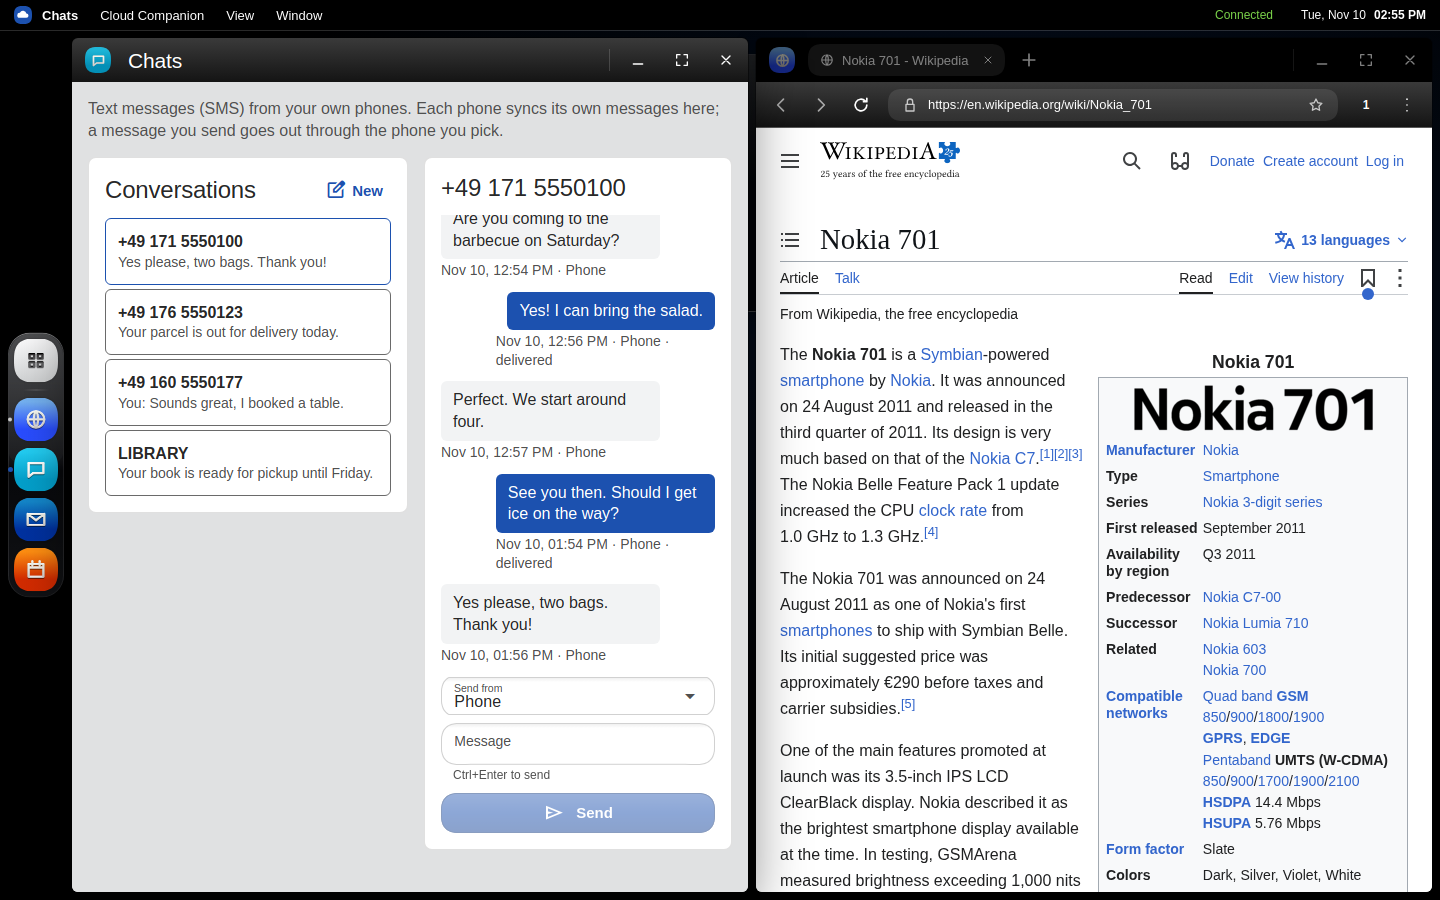
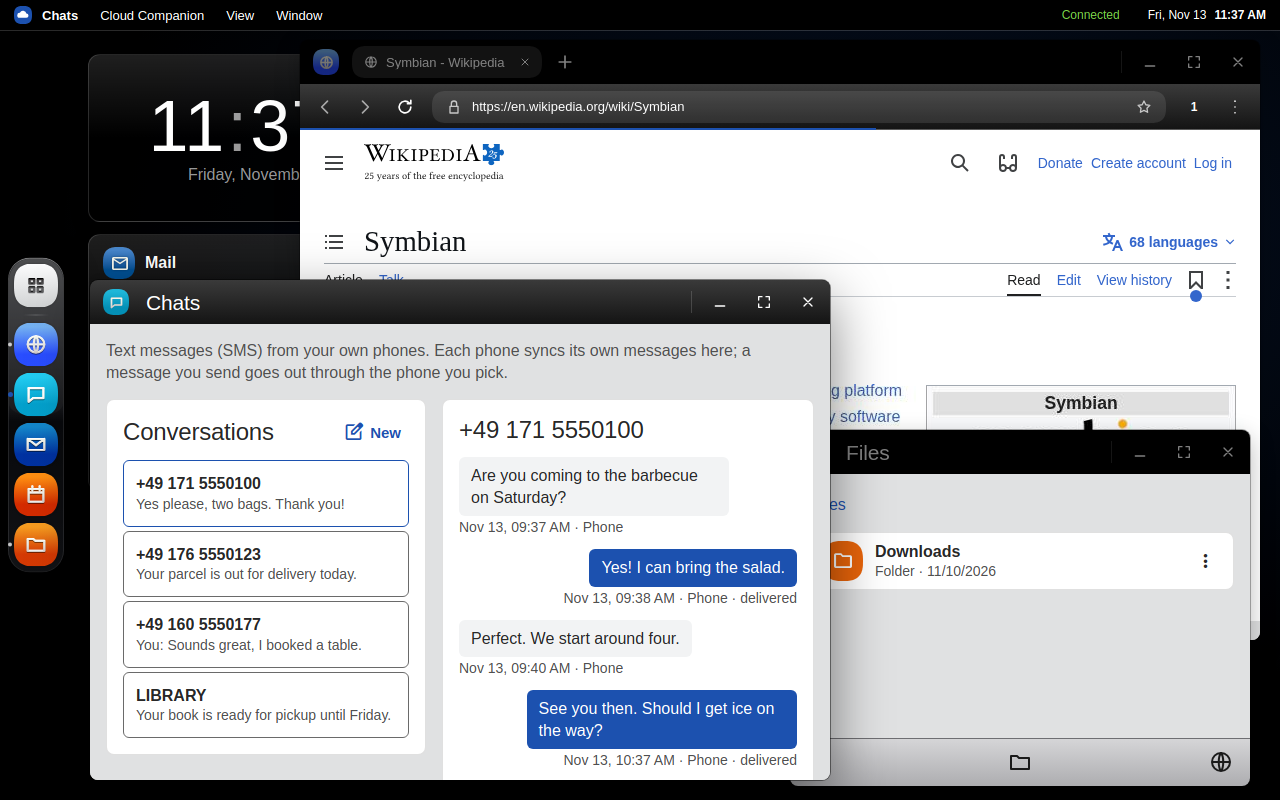
docs(readme): desktop screenshot with overlapping windows (Chats, Browser on Symbian, Files)

diff --git a/web/test/readme-shots.ts b/web/test/readme-shots.ts
@@ -10,7 +10,7 @@ import { openApp } from './chrome.ts'
 
 const BASE = process.env.BASE || 'http://localhost:8080'
 const OUT = process.env.OUT || '.'
-const SITE = process.env.SITE_URL || 'https://en.wikipedia.org/wiki/Nokia_701'
+const SITE = process.env.SITE_URL || 'https://en.wikipedia.org/wiki/Symbian'
 const [ADMIN, PLAIN] = (process.env.CODES || '').split(',')
 assert(ADMIN && PLAIN, 'CODES=<admin>,<plain> is required')
 const browser = await chromium.launch({ args: ['--autoplay-policy=no-user-gesture-required'] })
@@ -85,7 +85,8 @@ await noBanner(owner, '[data-test=stage]')
 await owner.screenshot({ path: `${OUT}/readme-browser.png` })
 step('browser: ' + await owner.inputValue(addr) + ' / ' + await owner.locator('[data-test=title]').textContent({ timeout: 2000 }).catch(() => '?'))
 
-// the desktop, with a few windows: Chats (the conversation), Browser on a real site, Calendar
+// the desktop (1280 x 800), with overlapping windows: Chats (the conversation), the Browser on a real site, Files
+await owner.setViewportSize({ width: 1280, height: 800 })
 await owner.goto(BASE + '/#/chats')
 await owner.waitForSelector('[data-test=conv]')
 await openApp(owner, 'Desktop')
@@ -100,17 +101,27 @@ await owner.waitForTimeout(3000)
 await owner.fill(`${win('browse')} .x-bf__row input`, SITE); await owner.press(`${win('browse')} .x-bf__row input`, 'Enter')
 await owner.waitForTimeout(12000)
 await noBanner(owner, `${win('browse')} [data-test=stage]`)
-const snap = async (id: string, x: number) => {
-  const b = (await owner.locator(`${win(id)} .x-win__drag`).boundingBox())!
-  await owner.mouse.move(b.x + 120, b.y + 10); await owner.mouse.down(); await owner.mouse.move(x, 450, { steps: 20 }); await owner.mouse.up()
-  await owner.waitForTimeout(800)
-}
-await snap('browse', 1438)
-await owner.locator(`${win('chats')} .x-win__drag`).click({ position: { x: 300, y: 10 }, force: true }).catch(() => {})
-await snap('chats', 2)
+// the windows have no resize handles: their places, sizes and stacking (z) go to the desktop's stored layout, and the desktop is
+// opened again with it -- the Browser at the back, Files over its corner, Chats in front, partly over both
+const layout = [
+  { id: 'browse', x: 300, y: 10, w: 960, h: 600, z: 1 },
+  { id: 'files', x: 790, y: 400, w: 460, h: 356, z: 2 },
+  { id: 'chats', x: 90, y: 250, w: 740, h: 500, z: 3 },
+].map((l) => ({ ...l, snap: null, min: false }))
+await owner.evaluate((v) => window.__phe.apiCall('PUT', '/phe/prefs/desktop.windows', { value: v }), JSON.stringify(layout))
+await owner.waitForTimeout(1000)
+await owner.reload()
+await owner.waitForSelector(win('files'), { timeout: 20000 })
+await owner.waitForSelector(`${win('chats')} [data-test=conv]`, { timeout: 20000 })
 await owner.locator(`${win('chats')} [data-test=conv]`, { hasText: 'two bags' }).click()
-await owner.waitForTimeout(1500)
-await owner.mouse.move(720, 890)
+// the Browser window comes back on a new tab: the site again
+await owner.waitForSelector(`${win('browse')} .x-bf__row input`, { timeout: 30000 })
+await owner.waitForTimeout(3000)
+await owner.fill(`${win('browse')} .x-bf__row input`, SITE); await owner.press(`${win('browse')} .x-bf__row input`, 'Enter')
+await owner.locator(`${win('chats')} [data-test=conv]`, { hasText: 'two bags' }).click()
+await owner.waitForTimeout(12000)
+await noBanner(owner, `${win('browse')} [data-test=stage]`)
+await owner.mouse.move(640, 790)
 await owner.screenshot({ path: `${OUT}/readme-desktop.png` })
 assert.deepEqual(errors, [], 'no page errors')
 await browser.close()

diff --git a/README.md b/README.md
@@ -1,5 +1,5 @@
 <p align="center">
-  <img src=".github/readme/desktop.png" width="860" alt="The Cloud Companion web desktop in a browser: a Chats window with a text conversation on the left, and the Browser showing a Wikipedia page on the right, with the dock beside them">
+  <img src=".github/readme/desktop.png" width="860" alt="The Cloud Companion web desktop in a browser: a Chats window with a text conversation in front, partly over the Browser showing the Wikipedia article on Symbian and a Files window, with the dock beside them">
 </p>
 
 <h1 align="center">Cloud Companion</h1>
